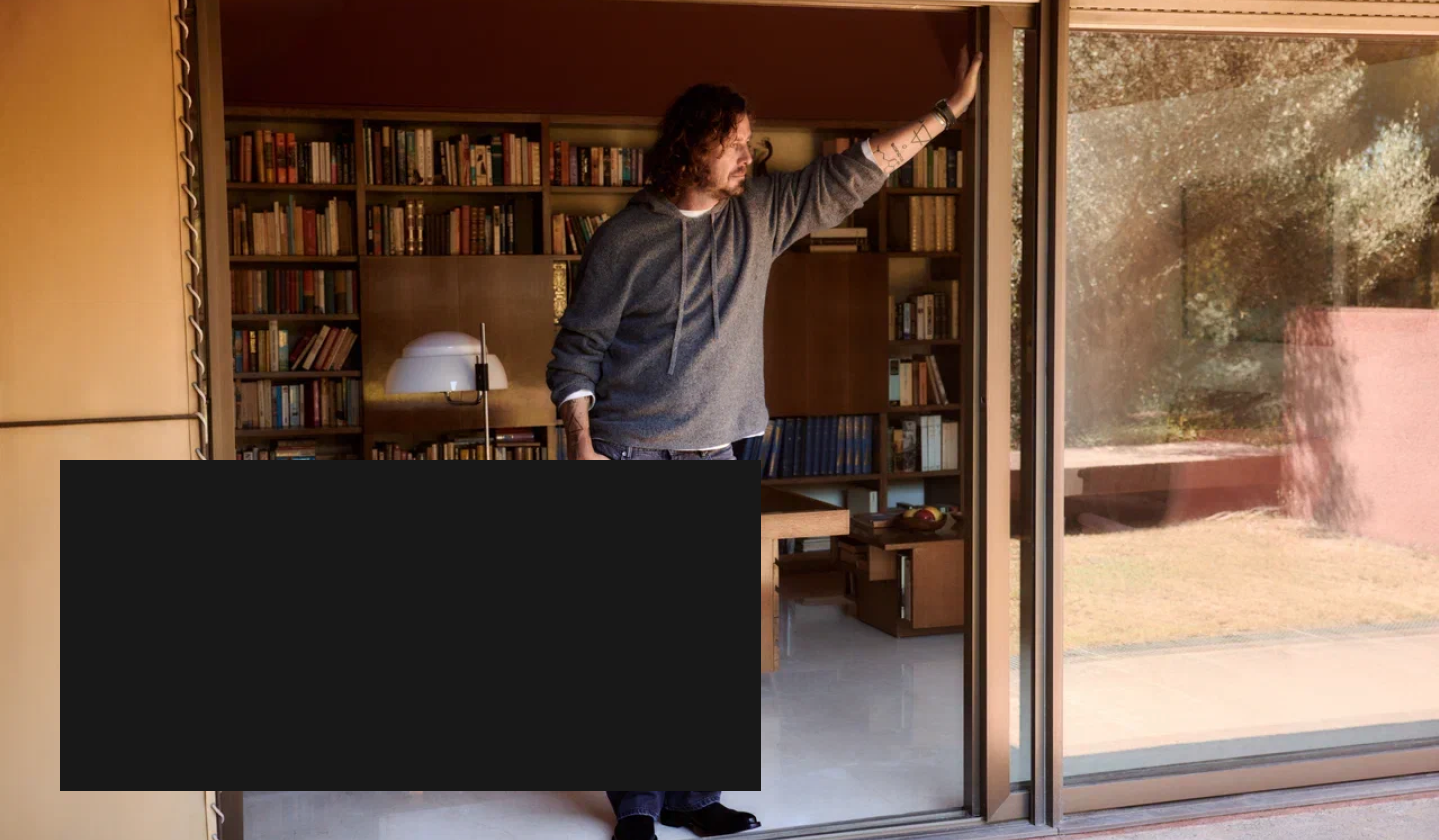
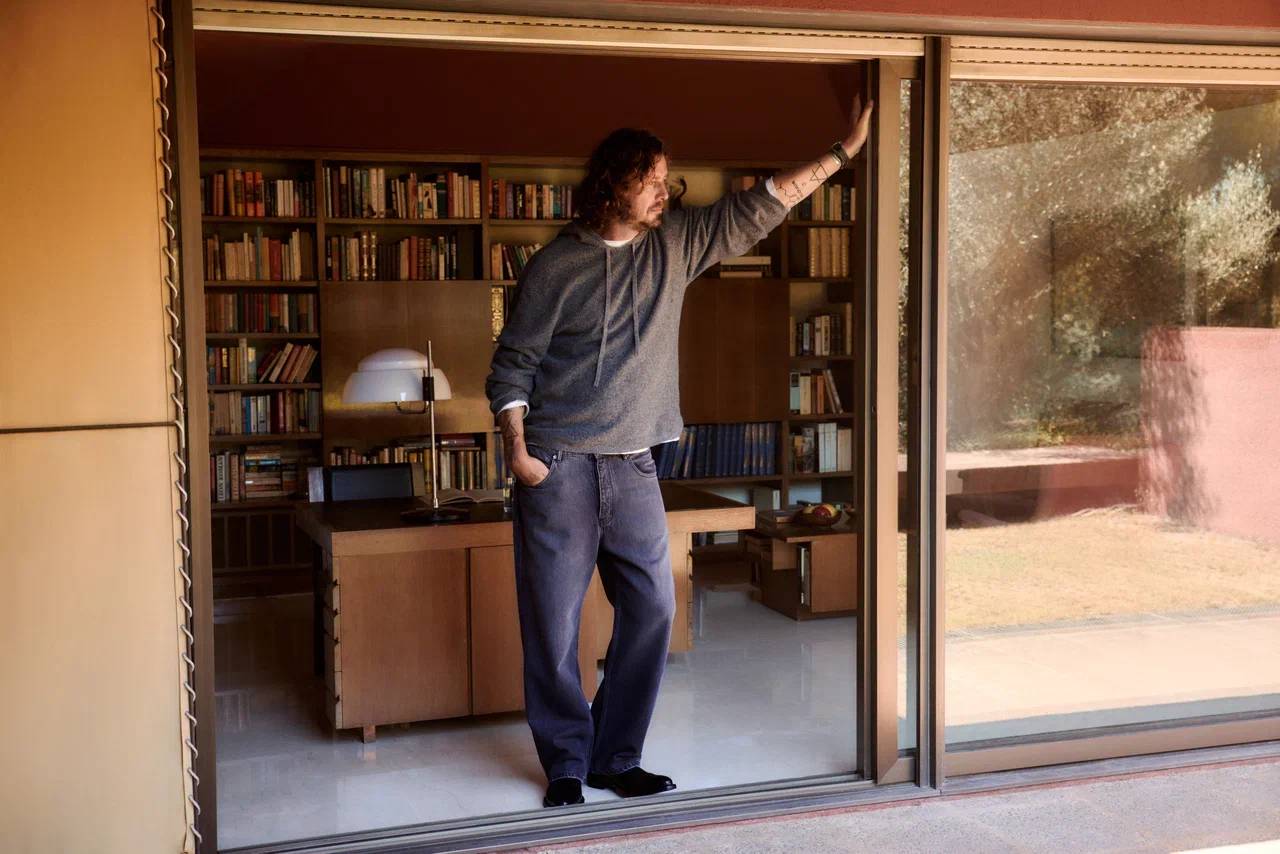
Fix men's slide closing band: clean photo, exact CTA box spec
Pulled the isolated Figma frame (node 55460:150184) via
get_design_context, resolving the photo as its own clean image layer
instead of the flattened screenshot crop with a solid-fill patch
standing in for the CTA box.

Corrected the CTA box to the extracted spec: bottom-[90px]
left-[90px] (was 80/80), fixed w-[372px] (was max-w-[546px]),
text-[14px] leading-[20px] (was text-sm/10px), gap-[20px] (was 24px).

diff --git a/src/components/LookbookPage.jsx b/src/components/LookbookPage.jsx
@@ -219,8 +219,8 @@ function SlideBody({ slide, active }) {
             </div>
           )}
           {slide.ctaBox && i === slide.bands.length - 1 && (
-            <div className="absolute bottom-[80px] left-[80px] z-[1] flex max-w-[546px] flex-col items-start gap-[24px] bg-[#181818] p-[40px] mobile:bottom-[20px] mobile:left-[20px] mobile:right-[20px] mobile:max-w-none mobile:p-[24px]">
-              <p className="text-sm uppercase leading-[20px] text-white">{slide.ctaBox.text}</p>
+            <div className="absolute bottom-[90px] left-[90px] z-[1] flex w-[372px] flex-col items-start gap-[20px] bg-[#181818] p-[40px] mobile:bottom-[20px] mobile:left-[20px] mobile:right-[20px] mobile:w-auto mobile:p-[24px]">
+              <p className="text-[14px] uppercase leading-[20px] text-white">{slide.ctaBox.text}</p>
               <CollectionButton className="mobile:w-full" />
             </div>
           )}

diff --git a/src/data/lookbookData.js b/src/data/lookbookData.js
@@ -167,7 +167,7 @@ export const homeSlides = [
     ],
     bands: [
       {
-        bg: '#3a332c',
+        bg: '#c4c3c1',
         mobileClassName: 'mobile:aspect-[390/520]',
         images: [
           photo(mensFinalBand, { inset: 0, width: '100%', height: '100%', objectPosition: 'center center' }),
